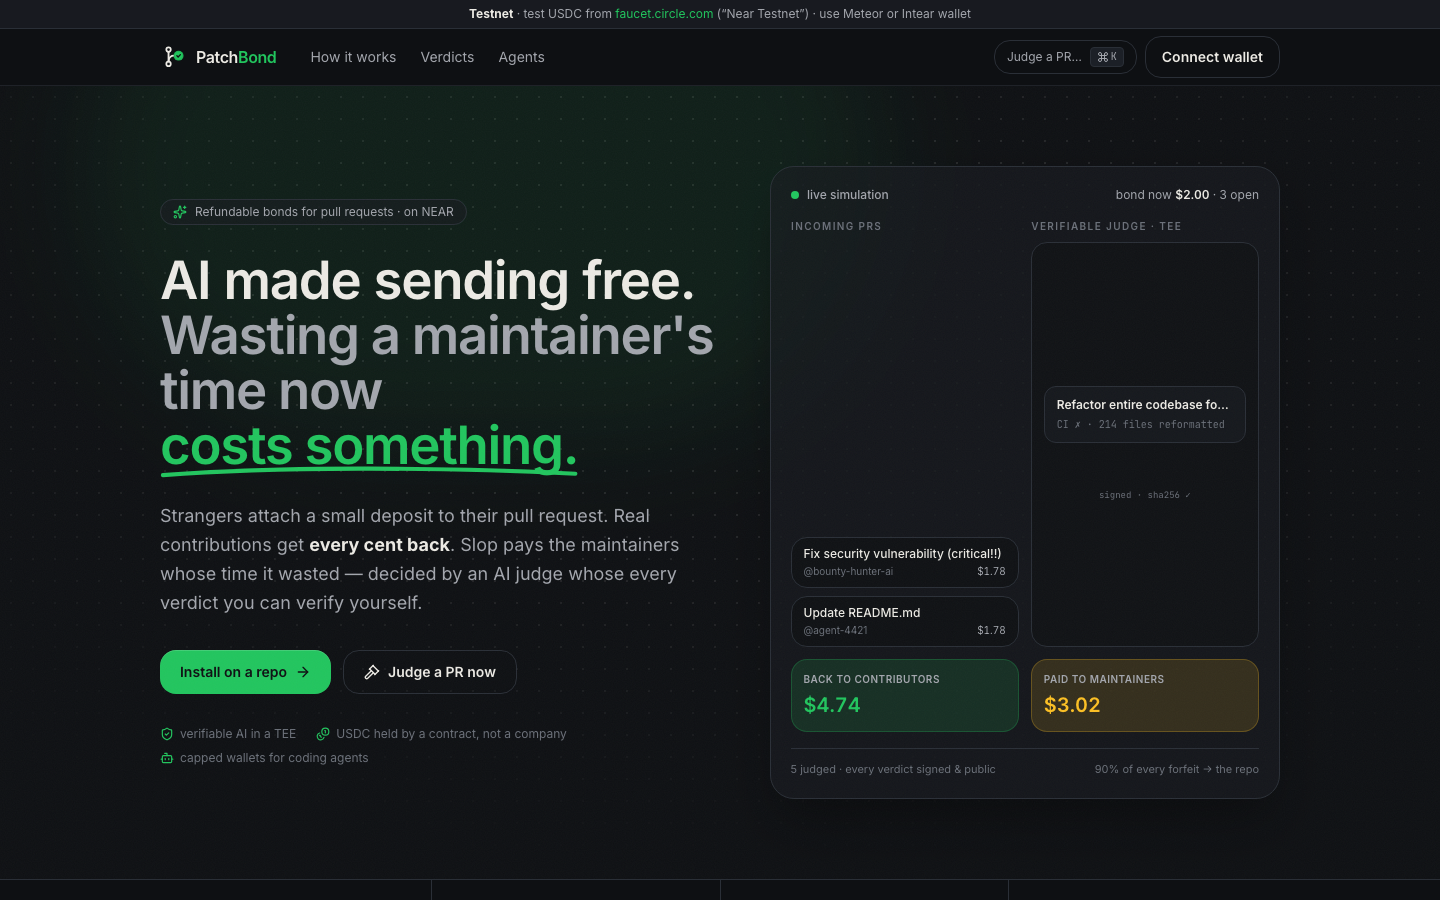
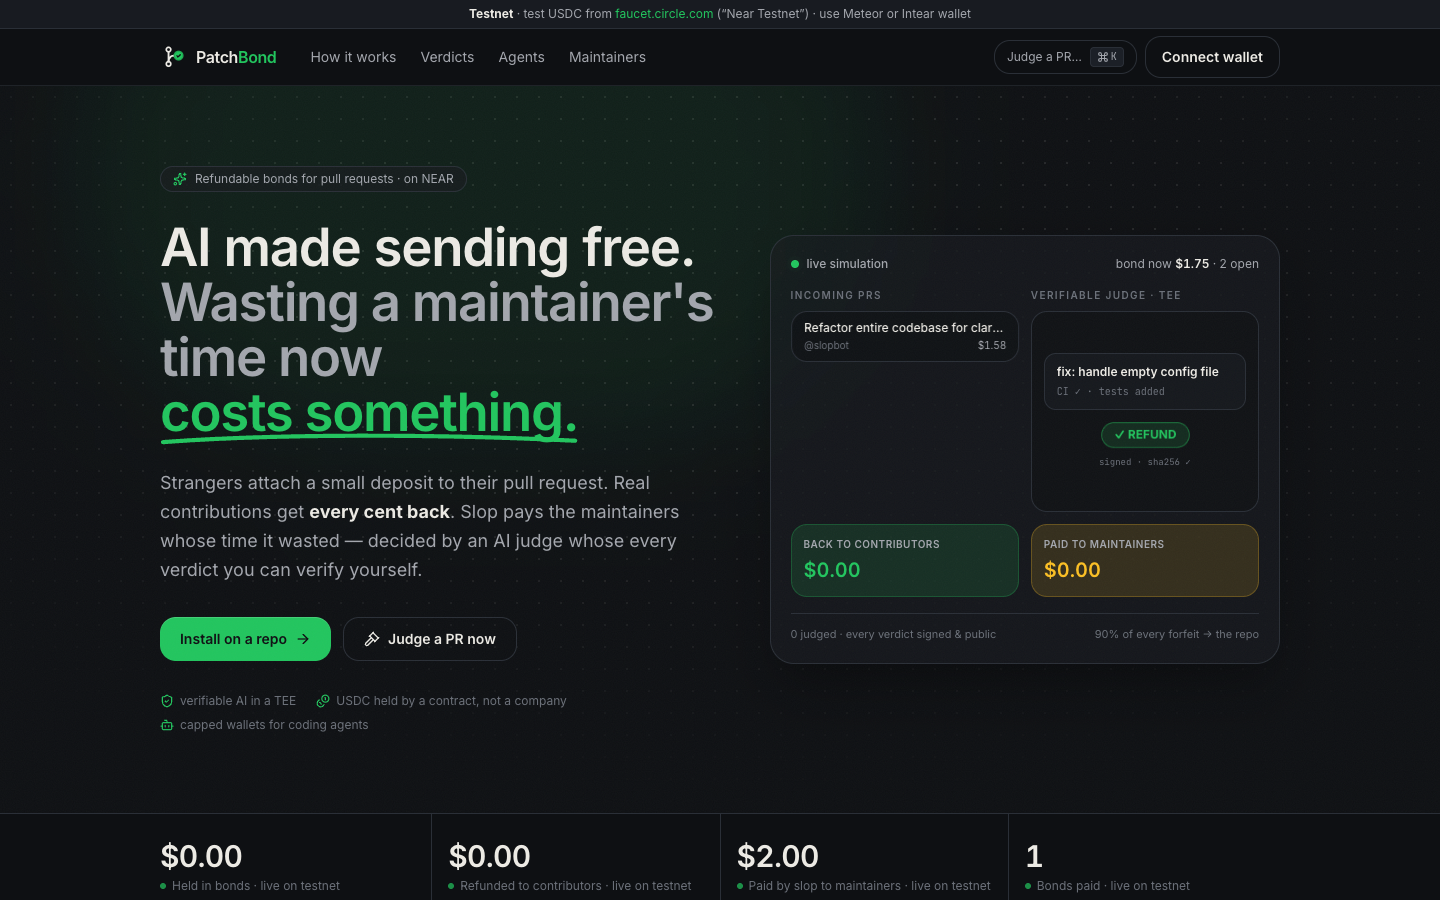
live judge everywhere: public lists show TEE-signed verdicts only, keyless mode renamed offline, README/screenshots from real NEAR AI verdicts, USDC or NEAR in the copy

diff --git a/web/src/pages/Home.tsx b/web/src/pages/Home.tsx
@@ -83,7 +83,7 @@ function Hero() {
           </motion.div>
           <motion.div initial={{ opacity: 0 }} animate={{ opacity: 1 }} transition={{ delay: 1.3 }} className="mt-8 flex flex-wrap gap-x-5 gap-y-2 text-xs text-faint">
             <span className="flex items-center gap-1.5"><ShieldCheck className="size-3.5 text-brand" /> verifiable AI in a TEE</span>
-            <span className="flex items-center gap-1.5"><Coins className="size-3.5 text-brand" /> USDC held by a contract, not a company</span>
+            <span className="flex items-center gap-1.5"><Coins className="size-3.5 text-brand" /> USDC or NEAR held by a contract, not a company</span>
             <span className="flex items-center gap-1.5"><Bot className="size-3.5 text-brand" /> capped wallets for coding agents</span>
           </motion.div>
         </div>
@@ -123,7 +123,7 @@ function Counters() {
 
 const STEPS = [
   { icon: GitPullRequest, title: "A stranger opens a PR", body: "PatchBond asks for a small refundable deposit in one comment. Maintainers, collaborators and proven contributors are waved through." },
-  { icon: Coins, title: "They pay the bond", body: "USDC on NEAR, priced by the repo's queue. Agents pay from capped budgets their owners control." },
+  { icon: Coins, title: "They pay the bond", body: "USDC or NEAR, priced by the repo's queue. Agents pay from capped budgets their owners control." },
   { icon: ShieldCheck, title: "A verifiable AI judges it", body: "After CI, a model in a TEE on NEAR AI Cloud reviews it with facts we compute. The response is signed." },
   { icon: Scale, title: "Refund — or the repo is paid", body: "Real work: every cent back. Slop: 90% to the repo's vault, 10% to run PatchBond. Either side can challenge." },
 ];

diff --git a/server/src/store.ts b/server/src/store.ts
@@ -92,10 +92,12 @@ export class Store {
     return row ? JSON.parse(row.record) : null;
   }
 
-  recentVerdicts(limit = 50, repoId?: number): VerdictRecord[] {
+  /** Newest first. `liveOnly` leaves out records from the offline dev judge. */
+  recentVerdicts(limit = 50, repoId?: number, liveOnly = false): VerdictRecord[] {
+    const live = liveOnly ? "AND json_extract(record, '$.mock') = 0" : "";
     const rows = repoId
-      ? this.db.query<{ record: string }, [number, number]>("SELECT record FROM verdicts WHERE repo_id = ? ORDER BY created_at DESC LIMIT ?").all(repoId, limit)
-      : this.db.query<{ record: string }, [number]>("SELECT record FROM verdicts ORDER BY created_at DESC LIMIT ?").all(limit);
+      ? this.db.query<{ record: string }, [number, number]>(`SELECT record FROM verdicts WHERE repo_id = ? ${live} ORDER BY created_at DESC LIMIT ?`).all(repoId, limit)
+      : this.db.query<{ record: string }, [number]>(`SELECT record FROM verdicts WHERE 1 = 1 ${live} ORDER BY created_at DESC LIMIT ?`).all(limit);
     return rows.map((r) => JSON.parse(r.record));
   }
 

diff --git a/server/src/judge/eval.ts b/server/src/judge/eval.ts
@@ -71,6 +71,6 @@ const summary = {
 };
 console.log("\n" + JSON.stringify(summary, null, 2));
 console.table(rows.map((r) => ({ label: r.label, verdict: r.verdict, model: r.model, ci: r.ci, phantom: r.phantom.join(" ").slice(0, 50), pr: `${r.repo}#${r.number}`, error: r.error ?? "" })));
-const out = join(cfg.root, "docs/eval", `results-${inference.mock ? "mock" : inference.model.replace(/\W+/g, "-")}.json`);
+const out = join(cfg.root, "docs/eval", `results-${inference.mock ? "facts-only" : inference.model.replace(/\W+/g, "-")}.json`);
 writeFileSync(out, JSON.stringify({ at: new Date().toISOString(), summary, rows }, null, 2));
 console.log(`saved ${out}`);

diff --git a/server/src/index.ts b/server/src/index.ts
@@ -47,7 +47,8 @@ app.get("/api/config", (c) =>
 
 app.get("/api/verdicts", (c) => {
   const repo = c.req.query("repo");
-  const list = store.recentVerdicts(Math.min(Number(c.req.query("limit") ?? 50), 200), repo ? Number(repo) : undefined);
+  // With the live judge on, public lists show live (TEE-signed) verdicts only.
+  const list = store.recentVerdicts(Math.min(Number(c.req.query("limit") ?? 50), 200), repo ? Number(repo) : undefined, !inference.mock);
   // The list omits the raw bytes; the single-verdict endpoint has everything.
   return c.json(list.map(({ request_body: _q, response_body: _r, ...rest }) => rest));
 });

diff --git a/web/src/pages/Verdict.tsx b/web/src/pages/Verdict.tsx
@@ -347,7 +347,7 @@ function OnChain({ r }: { r: VerdictRecord }) {
     return (
       <Panel className="p-5">
         <Eyebrow>On-chain</Eyebrow>
-        <p className="mt-3 text-sm text-muted-foreground">No deposit for this {r.kind === "pr" ? "PR" : "issue"} on {cfg.network}. This verdict is a demo judgement — nothing was settled.</p>
+        <p className="mt-3 text-sm text-muted-foreground">No deposit was paid for this {r.kind === "pr" ? "PR" : "issue"} on {cfg.network}: it was judged on request, so nothing was settled on-chain.</p>
       </Panel>
     );
   }

diff --git a/server/src/config.ts b/server/src/config.ts
@@ -30,7 +30,8 @@ export function loadConfig() {
   if (!existsSync(deployFile)) throw new Error(`No deployment for ${network}: ${deployFile} is missing`);
   const deployment = JSON.parse(readFileSync(deployFile, "utf8")) as Deployment;
 
-  const judgeMode = (process.env.JUDGE_MODE || "mock") as "mock" | "nearai";
+  // "offline" (formerly "mock"): the same pipeline without an API key.
+  const judgeMode: "mock" | "nearai" = process.env.JUDGE_MODE === "nearai" ? "nearai" : "mock";
   return {
     root: ROOT,
     port: Number(process.env.PORT || 8787),

diff --git a/README.md b/README.md
@@ -9,6 +9,7 @@
 <p align="center">
   <a href="https://github.com/PatchBond/patchbond/actions/workflows/ci.yml"><img src="https://github.com/PatchBond/patchbond/actions/workflows/ci.yml/badge.svg" alt="CI"></a>
   <img src="https://img.shields.io/badge/NEAR-testnet%20live-22C55E" alt="NEAR testnet">
+  <img src="https://img.shields.io/badge/NEAR%20AI-TEE%20judge%20live-22C55E" alt="NEAR AI judge live">
   <img src="https://img.shields.io/badge/license-MIT-ECEAE4" alt="MIT">
 </p>
 
@@ -95,16 +96,16 @@ Every step below works from a clean clone on macOS or Linux. Nothing needs a wal
 ```bash
 git clone https://github.com/PatchBond/patchbond && cd patchbond
 bun install
-cp .env.example .env          # defaults work: testnet, mock judge
+cp .env.example .env          # testnet by default; set NEARAI_API_KEY + JUDGE_MODE=nearai for the live TEE judge
 ```
 
 | # | Do | See |
 |---|---|---|
 | 1 | `bun run typecheck && (cd shared && bun test) && (cd server && bun test) && (cd mcp && bun test)` | **93 TypeScript tests pass** — judge facts and safety rules, the GitHub bot against a fake GitHub, maintainer sign-in and NEP-413 wallet linking, pre-flight, the MCP server over real stdio. |
 | 2 | `cd contract && cargo near build non-reproducible-wasm --manifest-path vault/Cargo.toml && cargo near build non-reproducible-wasm --manifest-path mock-ft/Cargo.toml && cargo test -p patchbond-vault` | **44 contract tests pass**: 10 unit (incl. a 50,000-case property test of the money split) + 34 on a local NEAR sandbox with real token transfers (every money path in USDC and in NEAR, challenges, maintainer safeguards, a real function-call key, link-once, pause, currency switching). Three more upgrade tests replay live state from each older build (see [`tests/migrate.rs`](contract/vault/tests/migrate.rs)). |
-| 3 | `bun run --cwd server judge-pr https://github.com/the-tcpdump-group/tcpdump/pull/1471` | A **forfeit**: the PR calls `pcap_callback_with_flush_signal_blocking`, which doesn't exist in libpcap's own `pcap_*` namespace. `"verifies": true`. Try `https://github.com/tj/commander.js/pull/2637` → **refund**. |
+| 3 | `bun run --cwd server judge-pr https://github.com/tj/commander.js/pull/2637` | A **refund** with its reasons, the facts, and `"verifies": true`. Then `…/OWASP/Nettacker/pull/1787` → **needs_human** (CI is failing, so a refund isn't automatic). With a NEAR AI key the verdict is signed in a TEE (~$0.0004); without one the same pipeline runs offline with a local key, so you can reproduce everything for free. |
 | 4 | `bun run dev`, then open <http://localhost:5317> | The app: drag the bond curve, press **Simulate a spam wave**, ⌘K → paste any PR URL → open the verdict → **Verify signature** (hashes + signer + on-chain hash, checked in the browser). |
-| 5 | On testnet, with test USDC from [faucet.circle.com](https://faucet.circle.com) ("Near Testnet") and a Meteor or Intear wallet: open <http://localhost:5317/pay/1/1?repo=PatchBond/playground&user=YOUR_GITHUB_LOGIN> | Pay a real bond into the live contract [`patchbond-dev.testnet`](https://testnet.nearblocks.io/address/patchbond-dev.testnet). The page shows the live quote from the on-chain curve. |
+| 5 | On testnet, with test USDC from [faucet.circle.com](https://faucet.circle.com) ("Near Testnet") and a Meteor or Intear wallet: open <http://localhost:5317/pay/1/1?repo=PatchBond/playground&user=YOUR_GITHUB_LOGIN> | Pay a real bond into the live contract [`patchbond-dev.testnet`](https://testnet.nearblocks.io/address/patchbond-dev.testnet). The page shows the live quote from the on-chain curve. For a repo that takes **NEAR**, open `/pay/2/1?repo=PatchBond/playground-near&user=…` — the wallet wraps and pays in one transaction. |
 | 6 | `bun run --cwd server e2e:testnet` (needs a funded testnet parent account; see [`server/e2e/testnet.ts`](server/e2e/testnet.ts)) | The full money flow on **real testnet**: 62 transactions — including a gasless bond through the relayer, an agent paying via the MCP server, and NEAR bonds wrapped and paid in one transaction through the real `wrap.testnet` — then every account is deleted. Last report: [`docs/e2e/testnet-report.md`](docs/e2e/testnet-report.md) — one explorer link per transaction. |
 
 ### For coding agents (MCP)
@@ -125,7 +126,7 @@ Read-only works with no wallet (`patchbond_policy`, `patchbond_preflight`, `patc
 
 ## What's real
 
-Honest status on 2026-10-28. Testnet is the reproduce-it-yourself path; the final demo runs on mainnet.
+Honest status on 2026-10-29. Testnet is the reproduce-it-yourself path; the final demo runs on mainnet.
 
 | Part | Status |
 |---|---|
@@ -136,7 +137,7 @@ Honest status on 2026-10-28. Testnet is the reproduce-it-yourself path; the fina
 | Web app: home, pay, verdict with in-browser verification, repo, agents, ⌘K | ✅ Built |
 | MCP server for agents (7 tools, key safety check) | ✅ Built, paid a real bond on testnet in the e2e |
 | Maintainer dashboard: GitHub sign-in, NEP-413 wallet proof → `link_repo`, withdraw, bond-policy editor with live price preview, needs-human queue | ✅ Built, 6 tests (forged signature, wrong account, function-call key, replay, non-admin, CSRF) |
-| Re-judging challenges with a stronger model (Kimi K3) seeing both sides' statements, then `resolve_challenge` | ✅ Built and tested (runs on the mock until NEAR AI credits) |
+| Re-judging challenges with a stronger model (Kimi K3) seeing both sides' statements, then `resolve_challenge` | ✅ Built and tested; `moonshotai/kimi-k3` (verifiable), ~$0.04 per re-judge |
 | Maintainer safeguards: forfeits are disputable 48 h proposals, free disputes, escrowed penalty, public maintainer record | ✅ Built, 4 sandbox tests, live on testnet |
 | Malicious-code scan (16 rules, high/medium) feeding the judge | ✅ Built, 19 tests, 0 false positives on the eval set |
 | Unpaid PRs cost maintainers nothing: `patchbond: awaiting deposit` / `deposit paid` labels, unpaid PRs **closed after 24 h** — the deadline is announced in the bot's first comment and on the pay page, paying later reopens the PR, repos can change it or turn it off with `close_unpaid_after_hours` in `.github/patchbond.yml`, free GitHub-email @mention when a deposit lands, in-app activity feed | ✅ Built and tested against a fake GitHub |
@@ -233,9 +234,9 @@ Measured on a labelled set of 30 real PRs ([`docs/eval/candidates.json`](docs/ev
 | Judge | Good PRs forfeited | Good PRs refunded automatically | Slop *not* waved through (forfeit or to a human) | Invalid answers | Cost per verdict |
 |---|---|---|---|---|---|
 | **NEAR AI `glm-5.3-flash`** (verifiable, TEE-signed) | **0 / 15** | **14 / 15** | **8 / 15** | 0 | **$0.00035** |
-| Facts layer only (mock model) | 0 / 15 | 13 / 15 | 3 / 15 | — | — |
+| Facts layer alone (no model) | 0 / 15 | 13 / 15 | 3 / 15 | — | free |
 
-The target is **zero good PRs forfeited**; sending doubtful PRs to a human is acceptable (they're refunded automatically after 14 days if nobody decides). A refund is automatic only when it's clear-cut — CI passing and the model at least 80% sure. The whole 30-PR run cost $0.01 of NEAR AI credits; every record is saved and verifiable at `/v/<id>`. Results: [`docs/eval/results-z-ai-glm-5-3-flash.json`](docs/eval/results-z-ai-glm-5-3-flash.json), [`results-mock.json`](docs/eval/results-mock.json).
+The target is **zero good PRs forfeited**; sending doubtful PRs to a human is acceptable (they're refunded automatically after 14 days if nobody decides). A refund is automatic only when it's clear-cut — CI passing and the model at least 80% sure. The whole 30-PR run cost $0.01 of NEAR AI credits; every record is saved and verifiable at `/v/<id>`. Results: [`docs/eval/results-z-ai-glm-5-3-flash.json`](docs/eval/results-z-ai-glm-5-3-flash.json), [`results-facts-only.json`](docs/eval/results-facts-only.json).
 
 Honest limits: 30 PRs is a small set, the 0.8 refund threshold was chosen on it, and "AI slop" as maintainers label it is often well-formed but unrequested code — which a diff alone can't prove. That's why a forfeit needs a hard fact and stays challengeable.
 
